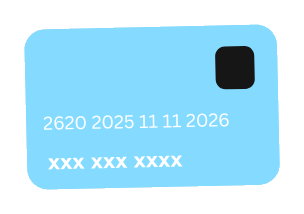
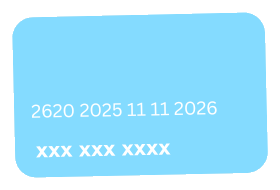
Paginate bank list and embed PayStation checkout

Changed region(s): [[0.0286, 0.0526, 0.9714, 0.9474], [0.6857, 0.2105, 0.8571, 0.4211]]

diff --git a/app/add-money/page.tsx b/app/add-money/page.tsx
@@ -31,6 +31,7 @@ export default function AddMoneyPage() {
   const [selectedMethod, setSelectedMethod] = useState("")
   const [selectedCardType, setSelectedCardType] = useState("") // New state for selected card type
   const [step, setStep] = useState(1)
+  const [bankPage, setBankPage] = useState(1)
   const [amount, setAmount] = useState("")
   const [pin, setPin] = useState("")
   const [error, setError] = useState("")
@@ -59,6 +60,31 @@ export default function AddMoneyPage() {
     cardholderName: "",
   })
 
+  const gatewayFrameRef = useRef<HTMLIFrameElement>(null)
+
+  useEffect(() => {
+    const handleGatewayMessage = (event: MessageEvent) => {
+      if (event.origin !== window.location.origin || event.source !== gatewayFrameRef.current?.contentWindow) return
+      if (event.data?.type !== "sheba-payment-result") return
+
+      setGatewayUrl("")
+      setGatewayLoaded(false)
+      setIsLoading(false)
+      checkoutStartedRef.current = false
+      if (event.data.status === "success") {
+        if (event.data.amount) setAmount(String(event.data.amount))
+        setSuccess(true)
+      } else if (event.data.status === "failed") {
+        setError("PayStation payment failed. Please try again.")
+      } else if (event.data.status === "pending") {
+        setError("Payment received. Wallet credit is being verified.")
+      }
+    }
+
+    window.addEventListener("message", handleGatewayMessage)
+    return () => window.removeEventListener("message", handleGatewayMessage)
+  }, [])
+
   useEffect(() => {
     const searchParams = new URLSearchParams(window.location.search)
     const paymentStatus = searchParams.get("payment")
@@ -66,6 +92,9 @@ export default function AddMoneyPage() {
       const returnedAmount = searchParams.get("amount") || localStorage.getItem("paystationAmount")
       if (returnedAmount) setAmount(returnedAmount)
       setSuccess(true)
+      if (window.parent !== window) {
+        window.parent.postMessage({ type: "sheba-payment-result", status: "success", amount: returnedAmount }, window.location.origin)
+      }
       const addedAmount = Number(returnedAmount || amount || 0).toLocaleString("en-US")
       const transactionEmail = localStorage.getItem("shebaTransactionEmail")
       if (transactionEmail) {
@@ -90,8 +119,10 @@ export default function AddMoneyPage() {
       window.history.replaceState({}, "", "/add-money")
     } else if (paymentStatus === "failed") {
       setError("PayStation payment failed. Please try again.")
+      if (window.parent !== window) window.parent.postMessage({ type: "sheba-payment-result", status: "failed" }, window.location.origin)
     } else if (paymentStatus === "pending") {
       setError("Payment received. Wallet credit is being verified.")
+      if (window.parent !== window) window.parent.postMessage({ type: "sheba-payment-result", status: "pending" }, window.location.origin)
     }
 
     // Check verification status
@@ -374,7 +405,9 @@ if (Number(amount) > 9000000) {
 
       localStorage.setItem("paystationInvoice", result.invoiceNumber)
       localStorage.setItem("paystationAmount", String(amount))
-      window.location.assign(result.redirectUrl)
+      setGatewayLoaded(false)
+      setGatewayUrl(result.redirectUrl)
+      setIsLoading(false)
     } catch {
       checkoutStartedRef.current = false
       setIsLoading(false)
@@ -560,20 +593,26 @@ if (Number(amount) > 9000000) {
     return (
       <div className="flex h-[100dvh] flex-col bg-white">
         <div className="flex shrink-0 items-center justify-between border-b border-[#edf0f3] px-4 py-3">
-          <button type="button" onClick={() => { setGatewayUrl(""); setGatewayLoaded(false) }} className="text-sm font-medium text-[#38afe8]">Back</button>
+          <button type="button" onClick={() => { setGatewayUrl(""); setGatewayLoaded(false); checkoutStartedRef.current = false }} className="text-sm font-medium text-[#38afe8]">Back</button>
           <h1 className="text-base font-medium text-[#151522]">Secure Bank Gateway</h1>
-          <a href={gatewayUrl} target="_blank" rel="noopener noreferrer" className="text-xs font-medium text-[#38afe8]">Open</a>
+          <a href={gatewayUrl} target="_blank" rel="noopener noreferrer" className="text-xs font-medium text-[#38afe8]">Open securely</a>
         </div>
-          <div className="relative min-h-0 flex-1">
-            {!gatewayLoaded && <div className="absolute inset-0 z-10 flex items-center justify-center bg-white text-sm text-gray-500">Loading PayStation…</div>}
-            <iframe
-              src={gatewayUrl}
-              title="PayStation payment gateway"
-              className="h-full w-full border-0"
-              allow="payment *; camera *; microphone *"
-              referrerPolicy="strict-origin-when-cross-origin"
-              onLoad={() => setGatewayLoaded(true)}
-            />
+          <div className="flex min-h-0 flex-1 flex-col">
+            <div className="relative min-h-0 flex-1">
+              {!gatewayLoaded && <div className="absolute inset-0 z-10 flex items-center justify-center bg-white text-sm text-gray-500">Loading PayStation…</div>}
+              <iframe
+                ref={gatewayFrameRef}
+                src={gatewayUrl}
+                title="PayStation payment gateway"
+                className="h-full w-full border-0"
+                allow="payment *"
+                referrerPolicy="strict-origin-when-cross-origin"
+                onLoad={() => setGatewayLoaded(true)}
+              />
+            </div>
+            <p className="shrink-0 bg-white px-4 py-2 text-center text-xs text-gray-500">
+              If the payment provider does not allow embedded checkout, use “Open securely” above.
+            </p>
           </div>
       </div>
     )
@@ -681,7 +720,7 @@ if (Number(amount) > 9000000) {
         <div className="flex flex-1 flex-col overflow-y-auto bg-white px-5 pb-8 pt-8 text-[#142033]">
           <h1 className="mb-8 text-center text-[2.35rem] font-normal leading-tight text-[#38afe8]">ব্যাংক নির্বাচন করুন</h1>
           <section className="mx-auto flex w-full max-w-md flex-col gap-3" aria-label="বাংলাদেশের ব্যাংক">
-            {bangladeshBanks.map((bank) => (
+            {bangladeshBanks.slice((bankPage - 1) * 5, bankPage * 5).map((bank) => (
               <button
                 key={bank.name}
                 type="button"
@@ -693,6 +732,29 @@ if (Number(amount) > 9000000) {
               </button>
             ))}
           </section>
+          {bangladeshBanks.length > 5 && (
+            <nav className="mx-auto mt-4 flex w-full max-w-md items-center justify-between" aria-label="Bank pages">
+              <button
+                type="button"
+                onClick={() => setBankPage((page) => Math.max(1, page - 1))}
+                disabled={bankPage === 1}
+                className="rounded-lg px-4 py-2 text-sm font-medium text-[#38afe8] disabled:opacity-40"
+              >
+                Previous
+              </button>
+              <span aria-live="polite" className="text-sm text-[#667085]">
+                Page {bankPage} of {Math.ceil(bangladeshBanks.length / 5)}
+              </span>
+              <button
+                type="button"
+                onClick={() => setBankPage((page) => Math.min(Math.ceil(bangladeshBanks.length / 5), page + 1))}
+                disabled={bankPage >= Math.ceil(bangladeshBanks.length / 5)}
+                className="rounded-lg px-4 py-2 text-sm font-medium text-[#38afe8] disabled:opacity-40"
+              >
+                Next
+              </button>
+            </nav>
+          )}
         </div>
       )}
 
